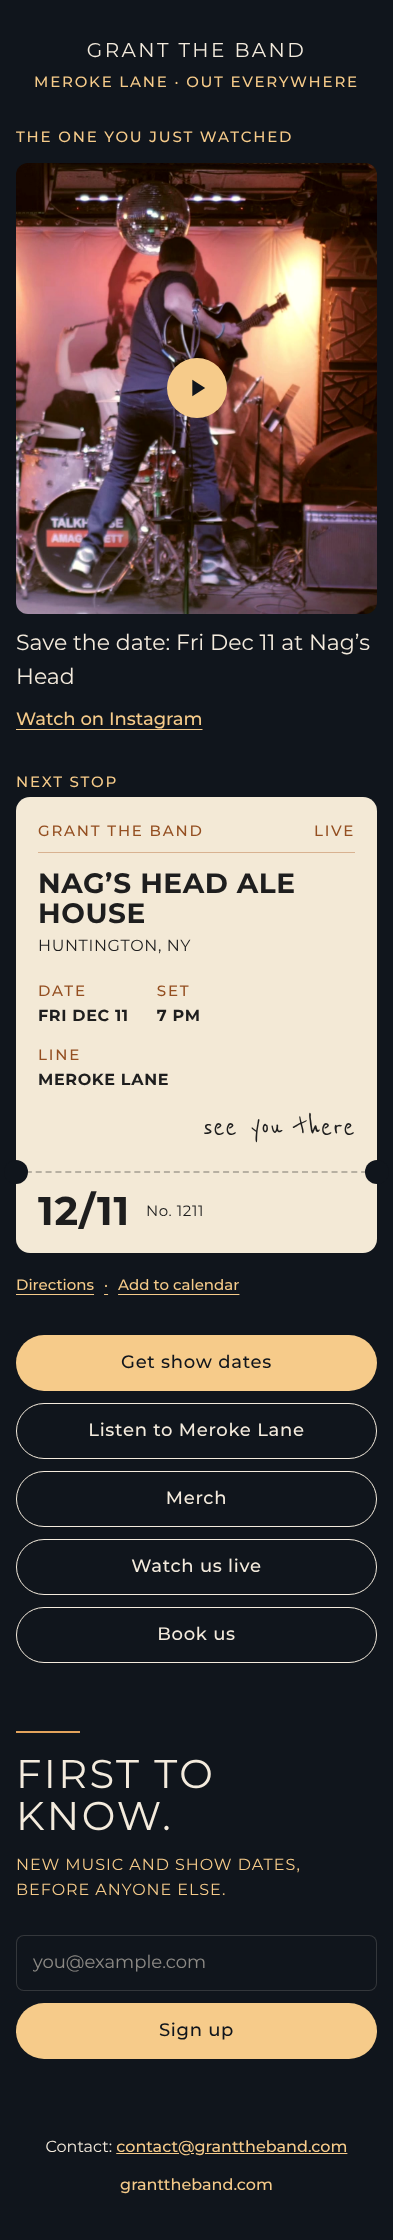
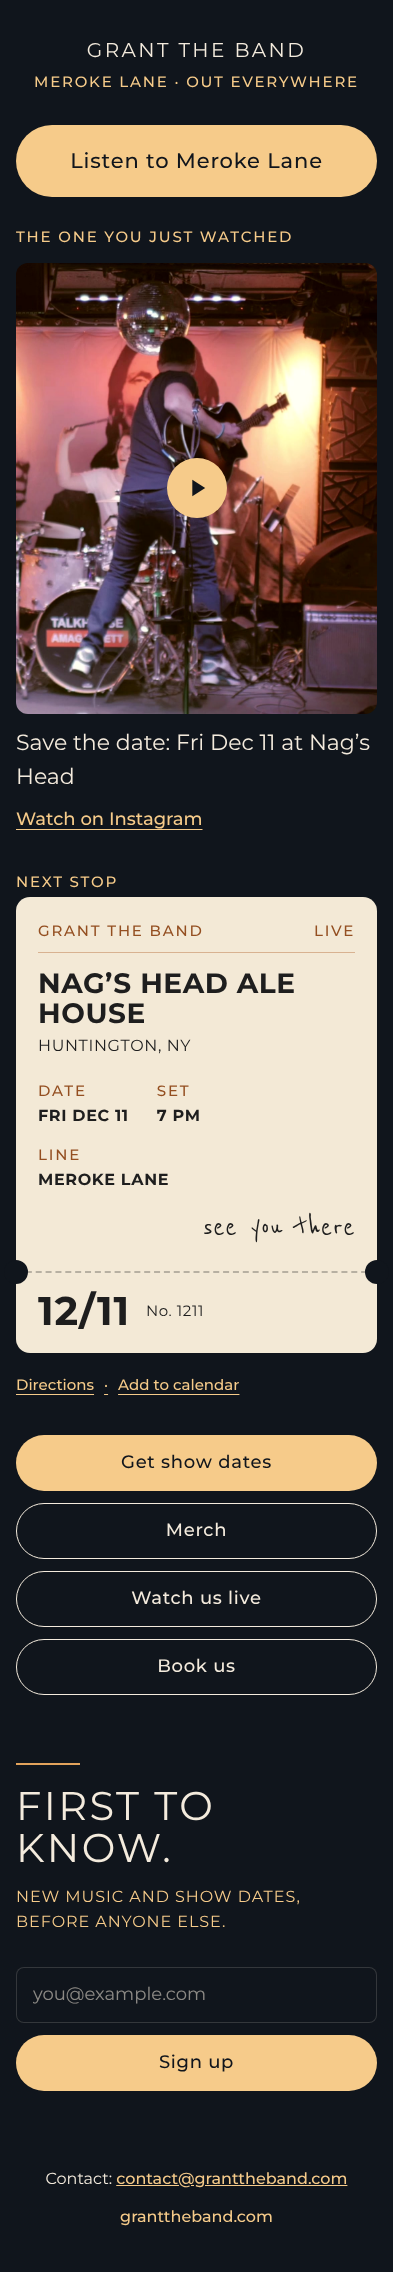
W6: Meroke Lane EP first and biggest on /now (11/21 to 11/28)
Adds a dated "feature" slot to now.json. While it's set and the build
date is on or before `until`, /now opens with a full-width gold
"Listen to Meroke Lane" button (72px, lead size) under the wordmark,
above the latest clip and the next show. The duplicate Listen button
leaves the list below. It drops off on the first build after 11/28;
"feature": null restores the normal order.

Claude-Session: https://claude.ai/code/session_01W6jjmfw4jg5nbCLrcgWh7M

diff --git a/src/lib/shows.ts b/src/lib/shows.ts
@@ -16,7 +16,7 @@ const TZ = 'America/New_York';
 
 // Today's date on Long Island, as YYYY-MM-DD. Shows are compared as plain dates
 // so a show stays listed through its own day.
-function todayLocal(now = new Date()): string {
+export function todayLocal(now = new Date()): string {
   return new Intl.DateTimeFormat('en-CA', { timeZone: TZ }).format(now);
 }
 

diff --git a/CLAUDE.md b/CLAUDE.md
@@ -211,6 +211,8 @@ Not on home: venue list, press quote, booking teaser. Those live on `/book`.
 
 Single phone-width column: a visually hidden `<h1>GRANT the band</h1>`, wordmark, gold label "MEROKE LANE · OUT EVERYWHERE", top card from now.json ("The one you just watched"; a centered gold play button on the poster, same style as the Live clips; under the title a gold "Watch on Instagram" text link, same URL, new tab; poster in a 4:5 frame, taller posters cropped from 25% down so the jump stays in and the stage floor drops out; omitted on production while now.json is empty), next show row, buttons "Get show dates" (primary), "Listen to Meroke Lane" (Spotify EP), "Merch" (`shopUrl`, with UTM), "Watch us live", "Book us". Footer "Contact: contact@granttheband.com" and "granttheband.com". Meta description: "GRANT the band. The latest clip, the next show, and where to listen." No "Long Island" and no "Better in the room" on /now. Add UTM params to outbound links (utm_source=instagram&utm_medium=bio).
 
+Feature week: `feature` in now.json (`{ "label", "url", "until": "YYYY-MM-DD" }`) puts one link first and biggest, right under the wordmark and above the top card: the primary gold button, full width, 72px tall, 21-24px label. It drops off on the first build after `until` (Long Island date), and `"feature": null` restores the normal order. When it points at the Meroke Lane EP, the "Listen to Meroke Lane" button leaves the list below so it never shows twice. "Get show dates" stays the list's primary. Meroke Lane week (W6): Sat 11/21 to Sat 11/28, 2026.
+
 ## Links
 
 - Spotify (artist, footer and socials): https://open.spotify.com/artist/7lsyuqqd27UuWS2mcYnSZe
